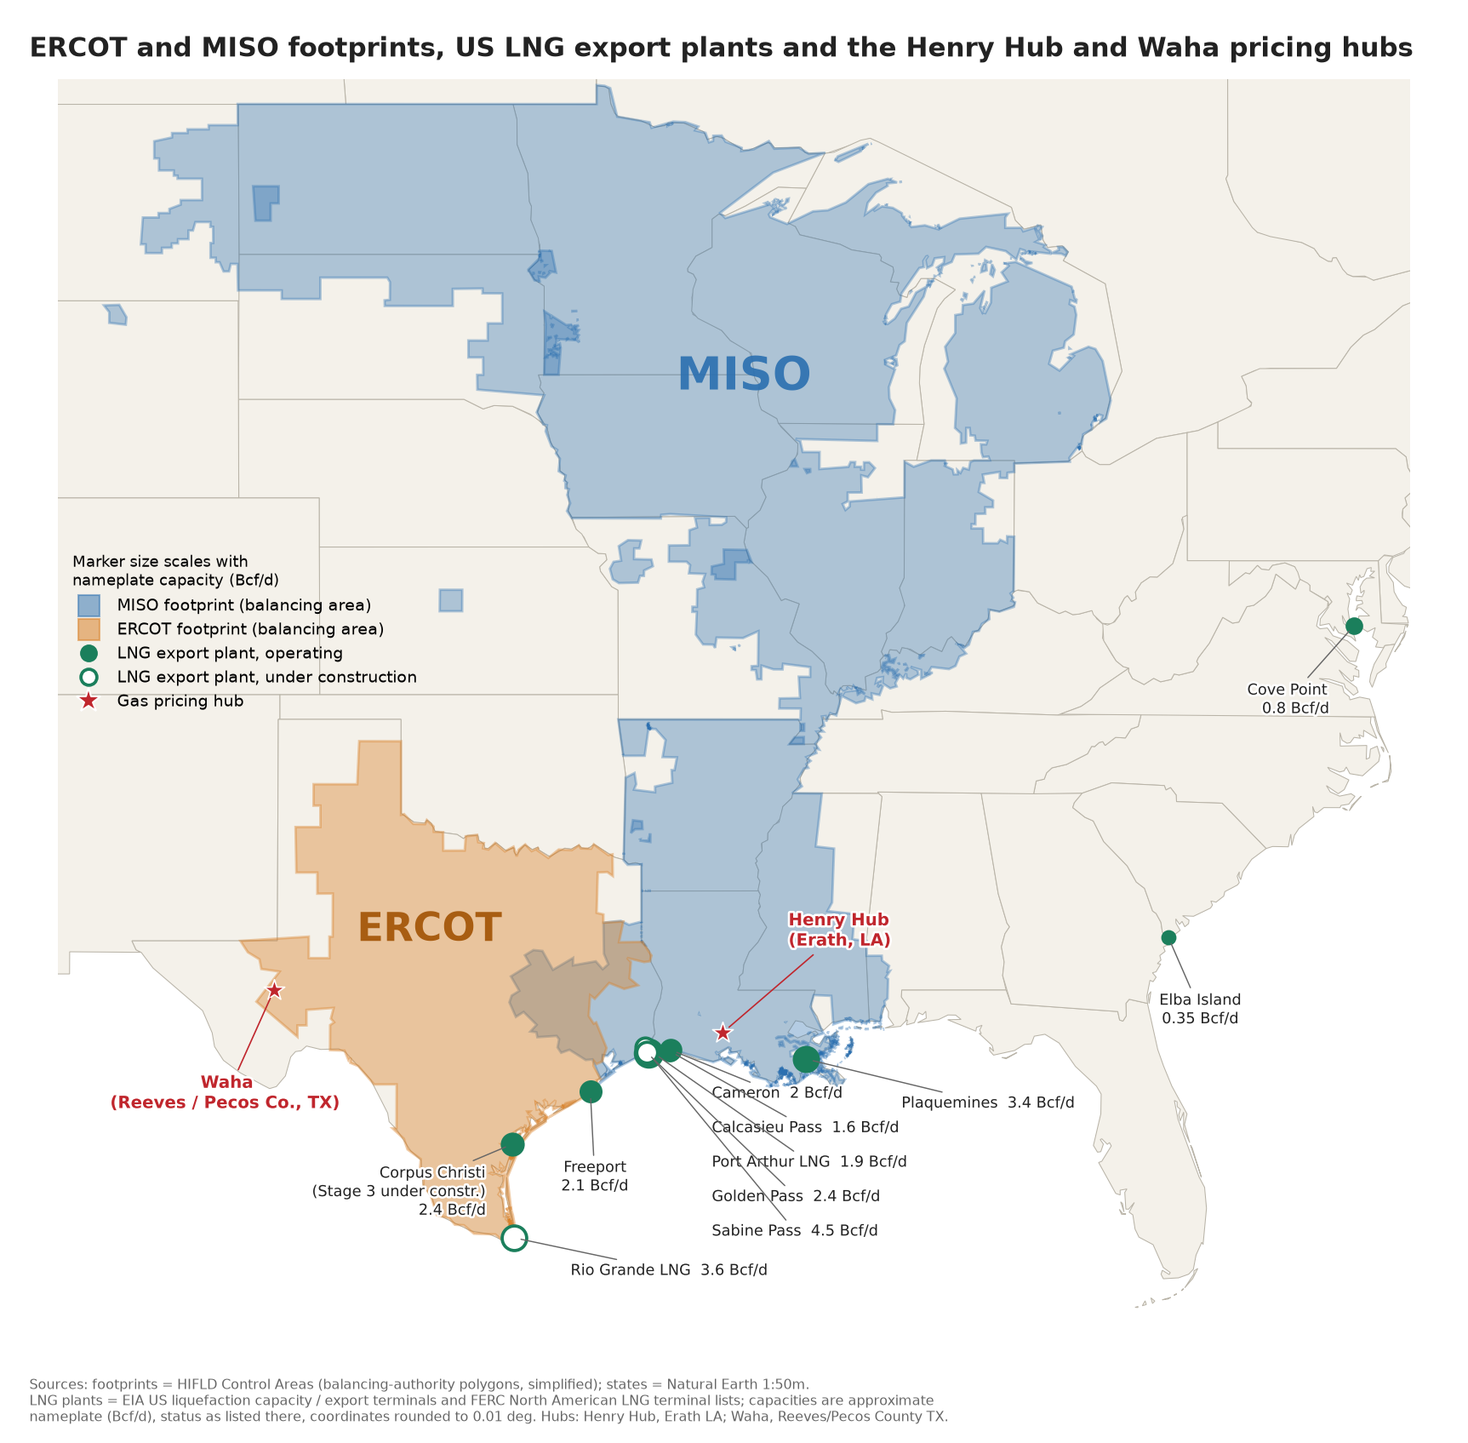
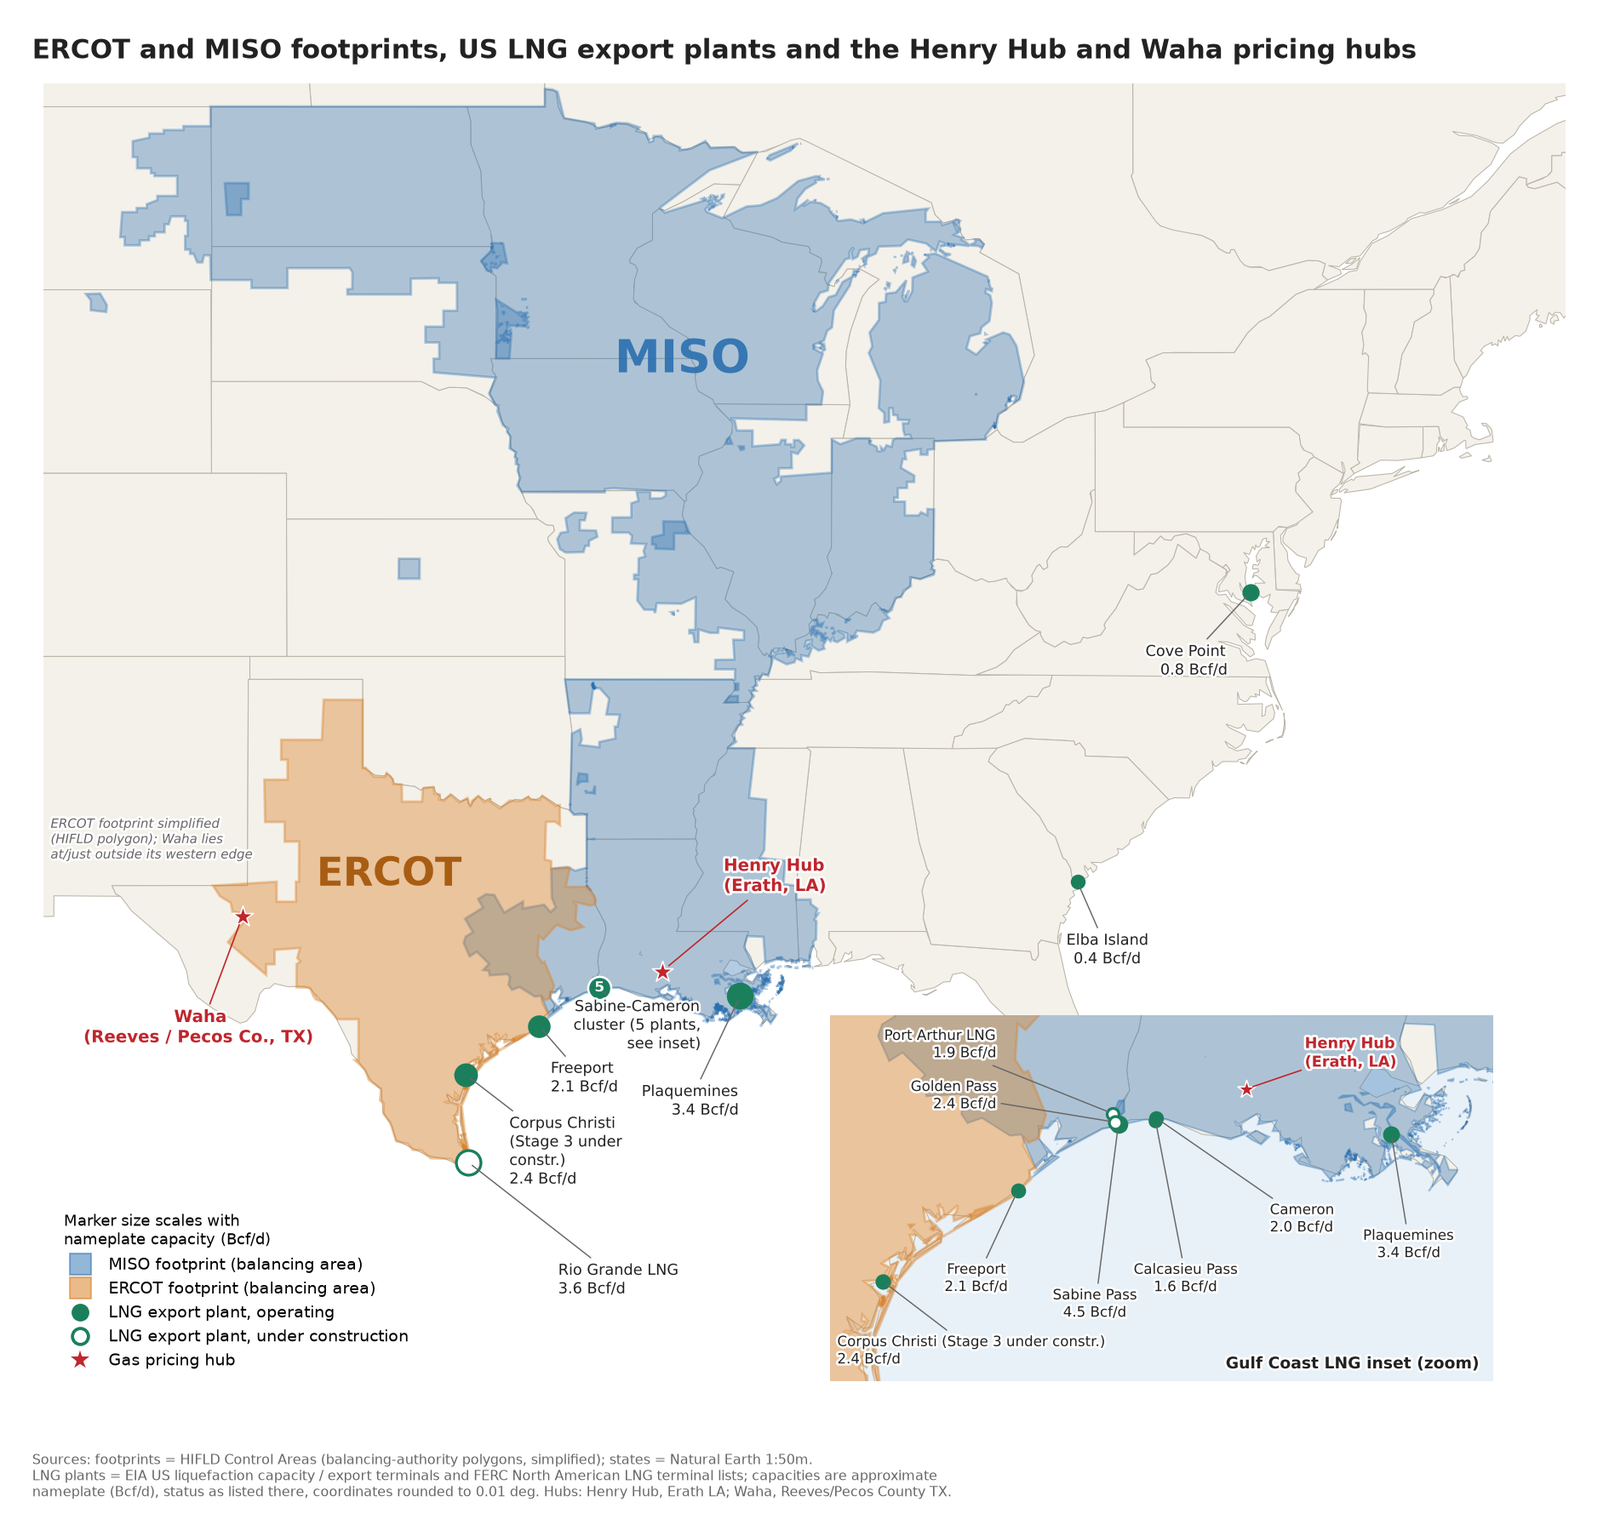
ERCOT/MISO LNG map: Gulf Coast inset, grouped cluster, legend panel, Waha moved outside ERCOT, 1-decimal capacities
Claude-Session: https://claude.ai/code/session_017JZ6NtiEGTPcCx8fG8R1Sb

diff --git a/americas/ERCOT_MISO_MAP.py b/americas/ERCOT_MISO_MAP.py
@@ -28,28 +28,39 @@ BA = os.path.join(ROOT, "maps", "us_balancing_authorities.geojson")
 ADMIN = os.path.join(ROOT, "maps", "north_america_admin1.geojson")
 OUT = os.path.join(ROOT, "output", "PNG Charts", "ercot_miso_lng_map.png")
 
-XLIM, YLIM = (-108.5, -75.0), (24.0, 49.5)
+XLIM, YLIM = (-108.5, -68.0), (21.0, 49.5)
 MISO_C, ERCOT_C = "#2a6fb0", "#d9822b"
 INK, MUTED = "#222222", "#666666"
+GREEN = "#1b7f5c"
+INSET = (-98.0, -88.5, 26.7, 31.0)  # lon0, lon1, lat0, lat1 of the Gulf Coast inset
 
-# name, lon, lat, Bcf/d, status, label x, label y, ha (label positions in map degrees; labels sit offshore with leader lines)
+# name, lon, lat, Bcf/d, status, main-map label x, y, ha (None = part of the Sabine-Cameron cluster, labelled in the inset),
+# inset label x, y, ha
 LNG = [
-    ("Cameron", -93.33, 29.79, 2.0, "op", -92.3, 28.9, "left"),
-    ("Calcasieu Pass", -93.34, 29.76, 1.6, "op", -92.3, 28.2, "left"),
-    ("Port Arthur LNG", -93.95, 29.84, 1.9, "uc", -92.3, 27.5, "left"),
-    ("Golden Pass", -93.92, 29.74, 2.4, "uc", -92.3, 26.8, "left"),
-    ("Sabine Pass", -93.87, 29.72, 4.5, "op", -92.3, 26.1, "left"),
-    ("Plaquemines", -89.96, 29.60, 3.4, "op", -87.6, 28.7, "left"),
-    ("Freeport", -95.31, 28.94, 2.1, "op", -95.2, 27.2, "center"),
-    ("Corpus Christi\n(Stage 3 under constr.)", -97.25, 27.87, 2.4, "op", -97.9, 26.9, "right"),
-    ("Rio Grande LNG", -97.20, 25.97, 3.6, "uc", -95.8, 25.3, "left"),
-    ("Cove Point", -76.39, 38.40, 0.8, "op", -77.0, 36.9, "right"),
-    ("Elba Island", -80.99, 32.08, 0.35, "op", -80.2, 30.6, "center"),
+    ("Cameron", -93.33, 29.79, 2.0, "op", None, None, None, -91.7, 28.6, "left"),
+    ("Calcasieu Pass", -93.34, 29.76, 1.6, "op", None, None, None, -92.9, 27.9, "center"),
+    ("Port Arthur LNG", -93.95, 29.84, 1.9, "uc", None, None, None, -95.6, 30.65, "right"),
+    ("Golden Pass", -93.92, 29.74, 2.4, "uc", None, None, None, -95.6, 30.05, "right"),
+    ("Sabine Pass", -93.87, 29.72, 4.5, "op", None, None, None, -94.2, 27.6, "center"),
+    ("Plaquemines", -89.96, 29.60, 3.4, "op", -90.0, 27.3, "right", -89.7, 28.3, "center"),
+    ("Freeport", -95.31, 28.94, 2.1, "op", -95.0, 27.8, "left", -95.9, 27.9, "center"),
+    ("Corpus Christi\n(Stage 3 under constr.)", -97.25, 27.87, 2.4, "op", -96.1, 26.2, "left", -97.9, 27.05, "left"),
+    ("Rio Grande LNG", -97.20, 25.97, 3.6, "uc", -94.8, 23.4, "left", None, None, None),
+    ("Cove Point", -76.39, 38.40, 0.8, "op", -77.0, 36.9, "right", None, None, None),
+    ("Elba Island", -80.99, 32.08, 0.35, "op", -80.2, 30.6, "center", None, None, None),
 ]
+# main map shows the five Sabine-Cameron plants as one grouped marker
+CLUSTER = (-93.7, 29.77, "Sabine-Cameron\ncluster (5 plants,\nsee inset)", -91.0, 28.95, "right")
+# name, lon, lat, main label x, y, ha, inset label x, y, ha
+# Waha gas hub sits near Waha, Reeves/Pecos Co. (about 31.3N, 103.2W), just outside the ERCOT polygon
 HUBS = [
-    ("Henry Hub\n(Erath, LA)", -92.04, 30.13, -90.4, 32.2, "left"),
-    ("Waha\n(Reeves / Pecos Co., TX)", -103.15, 31.0, -104.3, 28.9, "center"),
+    ("Henry Hub\n(Erath, LA)", -92.04, 30.13, -90.4, 32.2, "left", -91.2, 30.55, "left"),
+    ("Waha\n(Reeves / Pecos Co., TX)", -103.2, 31.33, -104.3, 28.9, "center", None, None, None),
 ]
+
+
+def cap_txt(cap):
+    return f"{cap + 1e-9:.1f} Bcf/d"
 
 
 def rings(geom):
@@ -78,29 +89,78 @@ def main():
                 geo[v] = f["geometry"]
     assert set(geo) == {"miso", "ercot"}, geo.keys()
 
-    fig, ax = plt.subplots(figsize=(11.5, 11.3), dpi=150)
+    fig, ax = plt.subplots(figsize=(12.6, 11.9), dpi=150)
     fig.patch.set_facecolor("white")
     ax.set_facecolor("white")
-    for f in adm:
-        draw(ax, f["geometry"], facecolor="#f4f1ea", edgecolor="#b9b4a8", lw=0.5, zorder=1)
-    draw(ax, geo["miso"], facecolor=MISO_C, edgecolor=MISO_C, alpha=0.35, lw=1.4, zorder=2)
-    draw(ax, geo["ercot"], facecolor=ERCOT_C, edgecolor=ERCOT_C, alpha=0.40, lw=1.4, zorder=3)
+
+    def base(a, miso_lw=1.4):
+        for f in adm:
+            draw(a, f["geometry"], facecolor="#f4f1ea", edgecolor="#b9b4a8", lw=0.5, zorder=1)
+        draw(a, geo["miso"], facecolor=MISO_C, edgecolor=MISO_C, alpha=0.35, lw=miso_lw, zorder=2)
+        draw(a, geo["ercot"], facecolor=ERCOT_C, edgecolor=ERCOT_C, alpha=0.40, lw=1.4, zorder=3)
+
+    base(ax)
     ax.text(-91.5, 43.2, "MISO", color=MISO_C, fontsize=26, fontweight="bold", ha="center", alpha=0.9, zorder=4)
     ax.text(-99.3, 32.0, "ERCOT", color="#a85d12", fontsize=22, fontweight="bold", ha="center", zorder=4)
 
     halo = [pe.withStroke(linewidth=2.5, foreground="white")]
-    for name, x, y, cap, st, lx, ly, ha in LNG:
-        op = st == "op"
-        ax.scatter([x], [y], s=30 + cap * 45, marker="o", facecolor="#1b7f5c" if op else "white",
-                   edgecolor="#1b7f5c", lw=1.8, zorder=6 if op else 7)
-        ax.annotate((f"{name}\n{cap:g} Bcf/d" if "\n" in name or ha != "left" else f"{name}  {cap:g} Bcf/d"), (x, y), (lx, ly), fontsize=8.5, color=INK, ha=ha, va="center",
-                    zorder=7, path_effects=halo,
-                    arrowprops=dict(arrowstyle="-", color=MUTED, lw=0.7, shrinkA=0, shrinkB=4))
-    for name, x, y, lx, ly, ha in HUBS:
+    lead = dict(arrowstyle="-", color=MUTED, lw=0.7, shrinkA=0, shrinkB=3)
+
+    def marker(a, x, y, cap, op, scale, z=6):
+        a.scatter([x], [y], s=scale[0] + cap * scale[1], marker="o", facecolor=GREEN if op else "white",
+                  edgecolor=GREEN, lw=1.6, zorder=z if op else z + 1)
+
+    # ---- main map
+    for name, x, y, cap, st, lx, ly, ha, *_ in LNG:
+        if lx is None:
+            continue
+        marker(ax, x, y, cap, st == "op", (30, 45))
+        mname = name.replace("(Stage 3 under constr.)", "(Stage 3 under\nconstr.)")
+        ax.annotate(f"{mname}\n{cap_txt(cap)}", (x, y), (lx, ly), fontsize=8.5, color=INK, ha=ha, va="center",
+                    zorder=7, path_effects=halo, arrowprops=lead)
+    cx, cy, ctxt, clx, cly, cha = CLUSTER
+    ax.scatter([cx], [cy], s=170, marker="o", facecolor=GREEN, edgecolor="white", lw=1.2, zorder=6)
+    ax.text(cx, cy, "5", color="white", fontsize=8, fontweight="bold", ha="center", va="center", zorder=7)
+    ax.annotate(ctxt, (cx, cy), (clx, cly), fontsize=8.5, color=INK, ha=cha, va="center", zorder=7,
+                path_effects=halo, arrowprops=lead)
+    for name, x, y, lx, ly, ha, *_ in HUBS:
         ax.scatter([x], [y], s=150, marker="*", facecolor="#c0262d", edgecolor="white", lw=0.8, zorder=8)
         ax.annotate(name, (x, y), (lx, ly), fontsize=9.5, fontweight="bold", color="#c0262d", path_effects=halo,
                     ha=ha, va="center", zorder=8,
                     arrowprops=dict(arrowstyle="-", color="#c0262d", lw=0.8, shrinkA=0, shrinkB=5))
+    ax.text(-108.3, 32.5, "ERCOT footprint simplified\n(HIFLD polygon); Waha lies\nat/just outside its western edge",
+            fontsize=7.2, color=MUTED, ha="left", va="bottom", style="italic", path_effects=halo, zorder=8)
+
+    # ---- Gulf Coast inset (lower right, over the Atlantic / Southeast)
+    x0, x1, y0, y1 = INSET
+    iw = 21.5
+    ih = iw * (y1 - y0) / (x1 - x0) * 0.82  # same aspect as the main map
+    ins = ax.inset_axes([-89.5, 21.2, iw, ih], transform=ax.transData, zorder=20)
+    ins.set_facecolor("#e8f1f8")
+    base(ins, miso_lw=1.0)
+    ins.set_xlim(x0, x1)
+    ins.set_ylim(y0, y1)
+    ins.set_aspect(1 / 0.82)
+    ins.set_xticks([])
+    ins.set_yticks([])
+    for sp in ins.spines.values():
+        sp.set_visible(False)
+    ins.text(x1 - 0.1, y0 + 0.1, "Gulf Coast LNG inset (zoom)", fontsize=9, fontweight="bold", color=INK, va="bottom", ha="right",
+             path_effects=halo, zorder=9)
+    for name, x, y, cap, st, _lx, _ly, _ha, ilx, ily, iha in LNG:
+        if ilx is None:
+            continue
+        marker(ins, x, y, cap, st == "op", (22, 12), z=6)
+        nm = name.replace("\n", " ")
+        ins.annotate(f"{nm}\n{cap_txt(cap)}", (x, y), (ilx, ily), fontsize=8, color=INK, ha=iha, va="center",
+                     zorder=8, path_effects=halo, arrowprops=lead, annotation_clip=False)
+    for name, x, y, _lx, _ly, _ha, ilx, ily, iha in HUBS:
+        if ilx is None:
+            continue
+        ins.scatter([x], [y], s=110, marker="*", facecolor="#c0262d", edgecolor="white", lw=0.8, zorder=9)
+        ins.annotate(name, (x, y), (ilx, ily), fontsize=8.5, fontweight="bold", color="#c0262d",
+                     path_effects=halo, ha=iha, va="center", zorder=9,
+                     arrowprops=dict(arrowstyle="-", color="#c0262d", lw=0.8, shrinkA=0, shrinkB=4))
 
     ax.set_xlim(*XLIM)
     ax.set_ylim(*YLIM)
@@ -117,7 +177,8 @@ def main():
         Line2D([], [], marker="o", ls="", ms=9, mfc="white", mec="#1b7f5c", mew=1.8, label="LNG export plant, under construction"),
         Line2D([], [], marker="*", ls="", ms=14, mfc="#c0262d", mec="white", label="Gas pricing hub"),
     ]
-    ax.legend(handles=handles, loc="center left", bbox_to_anchor=(0.0, 0.56), frameon=False, fontsize=9,
+    ax.legend(handles=handles, loc="lower left", bbox_to_anchor=(0.0, 0.0), frameon=True, facecolor="white",
+              edgecolor="none", framealpha=1.0, fontsize=9, borderpad=0.8,
               title="Marker size scales with\nnameplate capacity (Bcf/d)", title_fontsize=8.5, alignment="left")
 
     fig.suptitle("ERCOT and MISO footprints, US LNG export plants and the Henry Hub and Waha pricing hubs",
@@ -127,7 +188,7 @@ def main():
              "LNG plants = EIA US liquefaction capacity / export terminals and FERC North American LNG terminal lists; capacities are approximate\n"
              "nameplate (Bcf/d), status as listed there, coordinates rounded to 0.01 deg. Hubs: Henry Hub, Erath LA; Waha, Reeves/Pecos County TX.",
              ha="left", va="bottom", fontsize=7.5, color=MUTED)
-    fig.subplots_adjust(left=0.01, right=0.99, top=0.945, bottom=0.075)
+    fig.subplots_adjust(left=0.01, right=0.99, top=0.945, bottom=0.085)
     os.makedirs(os.path.dirname(OUT), exist_ok=True)
     fig.savefig(OUT, facecolor="white")
     print("saved", OUT)

diff --git a/output/Python Scripts/ERCOT_MISO_MAP.py b/output/Python Scripts/ERCOT_MISO_MAP.py
@@ -28,28 +28,39 @@ BA = os.path.join(ROOT, "maps", "us_balancing_authorities.geojson")
 ADMIN = os.path.join(ROOT, "maps", "north_america_admin1.geojson")
 OUT = os.path.join(ROOT, "output", "PNG Charts", "ercot_miso_lng_map.png")
 
-XLIM, YLIM = (-108.5, -75.0), (24.0, 49.5)
+XLIM, YLIM = (-108.5, -68.0), (21.0, 49.5)
 MISO_C, ERCOT_C = "#2a6fb0", "#d9822b"
 INK, MUTED = "#222222", "#666666"
+GREEN = "#1b7f5c"
+INSET = (-98.0, -88.5, 26.7, 31.0)  # lon0, lon1, lat0, lat1 of the Gulf Coast inset
 
-# name, lon, lat, Bcf/d, status, label x, label y, ha (label positions in map degrees; labels sit offshore with leader lines)
+# name, lon, lat, Bcf/d, status, main-map label x, y, ha (None = part of the Sabine-Cameron cluster, labelled in the inset),
+# inset label x, y, ha
 LNG = [
-    ("Cameron", -93.33, 29.79, 2.0, "op", -92.3, 28.9, "left"),
-    ("Calcasieu Pass", -93.34, 29.76, 1.6, "op", -92.3, 28.2, "left"),
-    ("Port Arthur LNG", -93.95, 29.84, 1.9, "uc", -92.3, 27.5, "left"),
-    ("Golden Pass", -93.92, 29.74, 2.4, "uc", -92.3, 26.8, "left"),
-    ("Sabine Pass", -93.87, 29.72, 4.5, "op", -92.3, 26.1, "left"),
-    ("Plaquemines", -89.96, 29.60, 3.4, "op", -87.6, 28.7, "left"),
-    ("Freeport", -95.31, 28.94, 2.1, "op", -95.2, 27.2, "center"),
-    ("Corpus Christi\n(Stage 3 under constr.)", -97.25, 27.87, 2.4, "op", -97.9, 26.9, "right"),
-    ("Rio Grande LNG", -97.20, 25.97, 3.6, "uc", -95.8, 25.3, "left"),
-    ("Cove Point", -76.39, 38.40, 0.8, "op", -77.0, 36.9, "right"),
-    ("Elba Island", -80.99, 32.08, 0.35, "op", -80.2, 30.6, "center"),
+    ("Cameron", -93.33, 29.79, 2.0, "op", None, None, None, -91.7, 28.6, "left"),
+    ("Calcasieu Pass", -93.34, 29.76, 1.6, "op", None, None, None, -92.9, 27.9, "center"),
+    ("Port Arthur LNG", -93.95, 29.84, 1.9, "uc", None, None, None, -95.6, 30.65, "right"),
+    ("Golden Pass", -93.92, 29.74, 2.4, "uc", None, None, None, -95.6, 30.05, "right"),
+    ("Sabine Pass", -93.87, 29.72, 4.5, "op", None, None, None, -94.2, 27.6, "center"),
+    ("Plaquemines", -89.96, 29.60, 3.4, "op", -90.0, 27.3, "right", -89.7, 28.3, "center"),
+    ("Freeport", -95.31, 28.94, 2.1, "op", -95.0, 27.8, "left", -95.9, 27.9, "center"),
+    ("Corpus Christi\n(Stage 3 under constr.)", -97.25, 27.87, 2.4, "op", -96.1, 26.2, "left", -97.9, 27.05, "left"),
+    ("Rio Grande LNG", -97.20, 25.97, 3.6, "uc", -94.8, 23.4, "left", None, None, None),
+    ("Cove Point", -76.39, 38.40, 0.8, "op", -77.0, 36.9, "right", None, None, None),
+    ("Elba Island", -80.99, 32.08, 0.35, "op", -80.2, 30.6, "center", None, None, None),
 ]
+# main map shows the five Sabine-Cameron plants as one grouped marker
+CLUSTER = (-93.7, 29.77, "Sabine-Cameron\ncluster (5 plants,\nsee inset)", -91.0, 28.95, "right")
+# name, lon, lat, main label x, y, ha, inset label x, y, ha
+# Waha gas hub sits near Waha, Reeves/Pecos Co. (about 31.3N, 103.2W), just outside the ERCOT polygon
 HUBS = [
-    ("Henry Hub\n(Erath, LA)", -92.04, 30.13, -90.4, 32.2, "left"),
-    ("Waha\n(Reeves / Pecos Co., TX)", -103.15, 31.0, -104.3, 28.9, "center"),
+    ("Henry Hub\n(Erath, LA)", -92.04, 30.13, -90.4, 32.2, "left", -91.2, 30.55, "left"),
+    ("Waha\n(Reeves / Pecos Co., TX)", -103.2, 31.33, -104.3, 28.9, "center", None, None, None),
 ]
+
+
+def cap_txt(cap):
+    return f"{cap + 1e-9:.1f} Bcf/d"
 
 
 def rings(geom):
@@ -78,29 +89,78 @@ def main():
                 geo[v] = f["geometry"]
     assert set(geo) == {"miso", "ercot"}, geo.keys()
 
-    fig, ax = plt.subplots(figsize=(11.5, 11.3), dpi=150)
+    fig, ax = plt.subplots(figsize=(12.6, 11.9), dpi=150)
     fig.patch.set_facecolor("white")
     ax.set_facecolor("white")
-    for f in adm:
-        draw(ax, f["geometry"], facecolor="#f4f1ea", edgecolor="#b9b4a8", lw=0.5, zorder=1)
-    draw(ax, geo["miso"], facecolor=MISO_C, edgecolor=MISO_C, alpha=0.35, lw=1.4, zorder=2)
-    draw(ax, geo["ercot"], facecolor=ERCOT_C, edgecolor=ERCOT_C, alpha=0.40, lw=1.4, zorder=3)
+
+    def base(a, miso_lw=1.4):
+        for f in adm:
+            draw(a, f["geometry"], facecolor="#f4f1ea", edgecolor="#b9b4a8", lw=0.5, zorder=1)
+        draw(a, geo["miso"], facecolor=MISO_C, edgecolor=MISO_C, alpha=0.35, lw=miso_lw, zorder=2)
+        draw(a, geo["ercot"], facecolor=ERCOT_C, edgecolor=ERCOT_C, alpha=0.40, lw=1.4, zorder=3)
+
+    base(ax)
     ax.text(-91.5, 43.2, "MISO", color=MISO_C, fontsize=26, fontweight="bold", ha="center", alpha=0.9, zorder=4)
     ax.text(-99.3, 32.0, "ERCOT", color="#a85d12", fontsize=22, fontweight="bold", ha="center", zorder=4)
 
     halo = [pe.withStroke(linewidth=2.5, foreground="white")]
-    for name, x, y, cap, st, lx, ly, ha in LNG:
-        op = st == "op"
-        ax.scatter([x], [y], s=30 + cap * 45, marker="o", facecolor="#1b7f5c" if op else "white",
-                   edgecolor="#1b7f5c", lw=1.8, zorder=6 if op else 7)
-        ax.annotate((f"{name}\n{cap:g} Bcf/d" if "\n" in name or ha != "left" else f"{name}  {cap:g} Bcf/d"), (x, y), (lx, ly), fontsize=8.5, color=INK, ha=ha, va="center",
-                    zorder=7, path_effects=halo,
-                    arrowprops=dict(arrowstyle="-", color=MUTED, lw=0.7, shrinkA=0, shrinkB=4))
-    for name, x, y, lx, ly, ha in HUBS:
+    lead = dict(arrowstyle="-", color=MUTED, lw=0.7, shrinkA=0, shrinkB=3)
+
+    def marker(a, x, y, cap, op, scale, z=6):
+        a.scatter([x], [y], s=scale[0] + cap * scale[1], marker="o", facecolor=GREEN if op else "white",
+                  edgecolor=GREEN, lw=1.6, zorder=z if op else z + 1)
+
+    # ---- main map
+    for name, x, y, cap, st, lx, ly, ha, *_ in LNG:
+        if lx is None:
+            continue
+        marker(ax, x, y, cap, st == "op", (30, 45))
+        mname = name.replace("(Stage 3 under constr.)", "(Stage 3 under\nconstr.)")
+        ax.annotate(f"{mname}\n{cap_txt(cap)}", (x, y), (lx, ly), fontsize=8.5, color=INK, ha=ha, va="center",
+                    zorder=7, path_effects=halo, arrowprops=lead)
+    cx, cy, ctxt, clx, cly, cha = CLUSTER
+    ax.scatter([cx], [cy], s=170, marker="o", facecolor=GREEN, edgecolor="white", lw=1.2, zorder=6)
+    ax.text(cx, cy, "5", color="white", fontsize=8, fontweight="bold", ha="center", va="center", zorder=7)
+    ax.annotate(ctxt, (cx, cy), (clx, cly), fontsize=8.5, color=INK, ha=cha, va="center", zorder=7,
+                path_effects=halo, arrowprops=lead)
+    for name, x, y, lx, ly, ha, *_ in HUBS:
         ax.scatter([x], [y], s=150, marker="*", facecolor="#c0262d", edgecolor="white", lw=0.8, zorder=8)
         ax.annotate(name, (x, y), (lx, ly), fontsize=9.5, fontweight="bold", color="#c0262d", path_effects=halo,
                     ha=ha, va="center", zorder=8,
                     arrowprops=dict(arrowstyle="-", color="#c0262d", lw=0.8, shrinkA=0, shrinkB=5))
+    ax.text(-108.3, 32.5, "ERCOT footprint simplified\n(HIFLD polygon); Waha lies\nat/just outside its western edge",
+            fontsize=7.2, color=MUTED, ha="left", va="bottom", style="italic", path_effects=halo, zorder=8)
+
+    # ---- Gulf Coast inset (lower right, over the Atlantic / Southeast)
+    x0, x1, y0, y1 = INSET
+    iw = 21.5
+    ih = iw * (y1 - y0) / (x1 - x0) * 0.82  # same aspect as the main map
+    ins = ax.inset_axes([-89.5, 21.2, iw, ih], transform=ax.transData, zorder=20)
+    ins.set_facecolor("#e8f1f8")
+    base(ins, miso_lw=1.0)
+    ins.set_xlim(x0, x1)
+    ins.set_ylim(y0, y1)
+    ins.set_aspect(1 / 0.82)
+    ins.set_xticks([])
+    ins.set_yticks([])
+    for sp in ins.spines.values():
+        sp.set_visible(False)
+    ins.text(x1 - 0.1, y0 + 0.1, "Gulf Coast LNG inset (zoom)", fontsize=9, fontweight="bold", color=INK, va="bottom", ha="right",
+             path_effects=halo, zorder=9)
+    for name, x, y, cap, st, _lx, _ly, _ha, ilx, ily, iha in LNG:
+        if ilx is None:
+            continue
+        marker(ins, x, y, cap, st == "op", (22, 12), z=6)
+        nm = name.replace("\n", " ")
+        ins.annotate(f"{nm}\n{cap_txt(cap)}", (x, y), (ilx, ily), fontsize=8, color=INK, ha=iha, va="center",
+                     zorder=8, path_effects=halo, arrowprops=lead, annotation_clip=False)
+    for name, x, y, _lx, _ly, _ha, ilx, ily, iha in HUBS:
+        if ilx is None:
+            continue
+        ins.scatter([x], [y], s=110, marker="*", facecolor="#c0262d", edgecolor="white", lw=0.8, zorder=9)
+        ins.annotate(name, (x, y), (ilx, ily), fontsize=8.5, fontweight="bold", color="#c0262d",
+                     path_effects=halo, ha=iha, va="center", zorder=9,
+                     arrowprops=dict(arrowstyle="-", color="#c0262d", lw=0.8, shrinkA=0, shrinkB=4))
 
     ax.set_xlim(*XLIM)
     ax.set_ylim(*YLIM)
@@ -117,7 +177,8 @@ def main():
         Line2D([], [], marker="o", ls="", ms=9, mfc="white", mec="#1b7f5c", mew=1.8, label="LNG export plant, under construction"),
         Line2D([], [], marker="*", ls="", ms=14, mfc="#c0262d", mec="white", label="Gas pricing hub"),
     ]
-    ax.legend(handles=handles, loc="center left", bbox_to_anchor=(0.0, 0.56), frameon=False, fontsize=9,
+    ax.legend(handles=handles, loc="lower left", bbox_to_anchor=(0.0, 0.0), frameon=True, facecolor="white",
+              edgecolor="none", framealpha=1.0, fontsize=9, borderpad=0.8,
               title="Marker size scales with\nnameplate capacity (Bcf/d)", title_fontsize=8.5, alignment="left")
 
     fig.suptitle("ERCOT and MISO footprints, US LNG export plants and the Henry Hub and Waha pricing hubs",
@@ -127,7 +188,7 @@ def main():
              "LNG plants = EIA US liquefaction capacity / export terminals and FERC North American LNG terminal lists; capacities are approximate\n"
              "nameplate (Bcf/d), status as listed there, coordinates rounded to 0.01 deg. Hubs: Henry Hub, Erath LA; Waha, Reeves/Pecos County TX.",
              ha="left", va="bottom", fontsize=7.5, color=MUTED)
-    fig.subplots_adjust(left=0.01, right=0.99, top=0.945, bottom=0.075)
+    fig.subplots_adjust(left=0.01, right=0.99, top=0.945, bottom=0.085)
     os.makedirs(os.path.dirname(OUT), exist_ok=True)
     fig.savefig(OUT, facecolor="white")
     print("saved", OUT)
